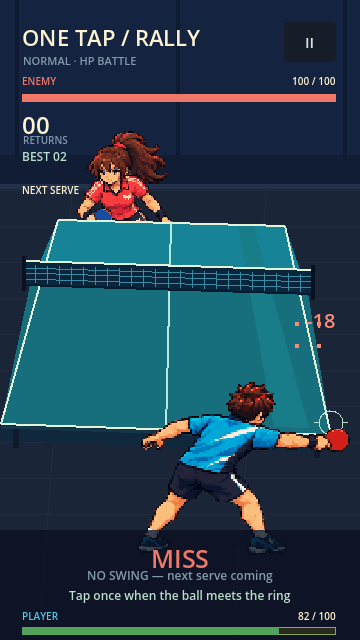
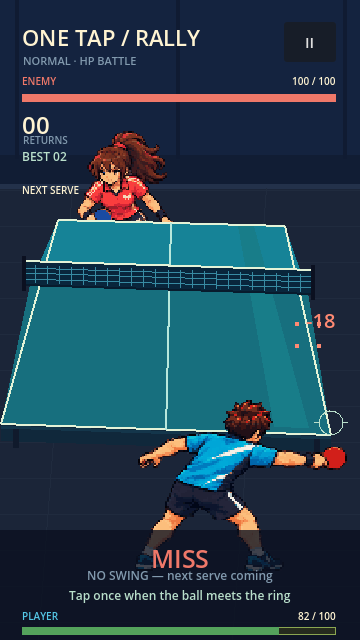
Animate player swing as right-handed forehand drive

Changed region(s): [[0.3667, 0.5938, 0.9778, 0.9062]]

diff --git a/tools/assets/build_player_drive.py b/tools/assets/build_player_drive.py
@@ -1,0 +1,105 @@
+"""Normalize the generated forehand-drive strip into six 128px player frames."""
+from pathlib import Path
+import hashlib
+import json
+
+import numpy as np
+from PIL import Image
+from scipy import ndimage
+
+
+ROOT = Path(__file__).resolve().parents[2]
+SOURCE = ROOT / "assets/source/characters/player_drive_source.png"
+OUTPUT = ROOT / "assets/characters/player"
+
+
+def build() -> None:
+    rgba = np.asarray(Image.open(SOURCE).convert("RGBA"))
+    labels, _ = ndimage.label(rgba[:, :, 3] >= 128, np.ones((3, 3)))
+    objects = []
+    for label, slices in enumerate(ndimage.find_objects(labels), 1):
+        if slices is None:
+            continue
+        mask = labels[slices] == label
+        if int(mask.sum()) < 2000:
+            continue
+        ys, xs = slices
+        feet_y, feet_x = np.where(mask[max(0, mask.shape[0] - 13):, :])
+        foot_x = (int(feet_x.min()) + int(feet_x.max())) / 2
+        objects.append((xs.start, [xs.start, ys.start, xs.stop, ys.stop], mask, rgba[slices].copy(), foot_x))
+    objects.sort(key=lambda item: item[0])
+    assert len(objects) == 6, f"expected six drive poses, found {len(objects)}"
+
+    manifest_path = OUTPUT / "manifest.json"
+    manifest = json.loads(manifest_path.read_text())
+    pivot = manifest["pivot"]
+    max_left = max(item[4] for item in objects)
+    max_right = max(item[2].shape[1] - 1 - item[4] for item in objects)
+    max_height = max(item[2].shape[0] - 1 for item in objects)
+    scale = min(120 / (max_left + max_right), 110 / max_height)
+
+    visible = np.concatenate([item[3][:, :, :3][item[2]] for item in objects])
+    training = Image.fromarray(visible.reshape((-1, 1, 3)).astype("uint8"), "RGB")
+    palette = training.quantize(colors=32, method=Image.Quantize.MEDIANCUT, dither=Image.Dither.NONE)
+    frames = []
+    records = []
+    for index, (_, box, mask, pixels, foot_x) in enumerate(objects):
+        pixels[:, :, 3] = np.where(mask, 255, 0).astype("uint8")
+        crop = Image.fromarray(pixels, "RGBA")
+        size = (round(crop.width * scale), round(crop.height * scale))
+        small = crop.resize(size, Image.Resampling.NEAREST)
+        alpha = small.getchannel("A")
+        colored = small.convert("RGB").quantize(palette=palette, dither=Image.Dither.NONE).convert("RGBA")
+        colored.putalpha(alpha)
+        x = round(pivot[0] - foot_x * scale)
+        y = pivot[1] - (size[1] - 1)
+        assert x >= 0 and y >= 0 and x + size[0] <= 128 and y + size[1] <= 128, (index, x, y, size)
+        frame = Image.new("RGBA", (128, 128))
+        frame.alpha_composite(colored, (x, y))
+        opaque_box = frame.getchannel("A").getbbox()
+        assert opaque_box is not None and opaque_box[3] == 117 and opaque_box[0] > 0 and opaque_box[2] < 128
+        frames.append(frame)
+        records.append({"animation": "swing", "index": index, "source_rect": box,
+                        "opaque_rect": opaque_box, "sha256": hashlib.sha256(frame.tobytes()).hexdigest()})
+
+    contact = np.asarray(frames[3])
+    assert len({frame.tobytes() for frame in frames}) == 6, "drive frames must be distinct"
+    rgb = contact[:, :, :3].astype("int16")
+    red = (rgb[:, :, 0] > 110) & (rgb[:, :, 0] > rgb[:, :, 1] * 1.5) & (rgb[:, :, 0] > rgb[:, :, 2] * 1.4) & (contact[:, :, 3] > 0)
+    patches, _ = ndimage.label(red)
+    areas = np.bincount(patches.ravel())
+    areas[0] = 0
+    contact_y, contact_x = np.where(patches == int(areas.argmax()))
+    assert len(contact_x) > 8, "contact paddle not found"
+    contact_point = [round(float(contact_x.mean())), round(float(contact_y.mean()))]
+
+    sheet = Image.new("RGBA", (768, 128))
+    for index, frame in enumerate(frames):
+        sheet.alpha_composite(frame, (128 * index, 0))
+    sheet.save(OUTPUT / "player_swing.png")
+    enlarged = [Image.alpha_composite(Image.new("RGBA", (128, 128), (23, 33, 59, 255)), frame).convert("RGB").resize((256, 256), Image.Resampling.NEAREST) for frame in frames]
+    enlarged[0].save(OUTPUT / "swing_preview.gif", save_all=True, append_images=enlarged[1:], duration=50, loop=0)
+    idle = Image.open(OUTPUT / "player_idle.png").convert("RGBA")
+    miss = Image.open(OUTPUT / "player_miss.png").convert("RGBA")
+    previews = []
+    for step in range(12):
+        preview = Image.new("RGBA", (384, 128), (23, 33, 59, 255))
+        preview.alpha_composite(idle.crop((step % 4 * 128, 0, (step % 4 + 1) * 128, 128)), (0, 0))
+        preview.alpha_composite(frames[step % 6], (128, 0))
+        preview.alpha_composite(miss.crop((step % 4 * 128, 0, (step % 4 + 1) * 128, 128)), (256, 0))
+        previews.append(preview.convert("RGB"))
+    previews[0].save(OUTPUT / "preview.gif", save_all=True, append_images=previews[1:], duration=130, loop=0)
+
+    manifest["frames"] = [entry for entry in manifest["frames"] if entry["animation"] != "swing"] + records
+    manifest["frames"].sort(key=lambda entry: (list(manifest["animations"]).index(entry["animation"]), entry["index"]))
+    manifest["contact_point"] = contact_point
+    manifest["swing_source"] = str(SOURCE.relative_to(ROOT))
+    manifest["swing_source_size"] = [rgba.shape[1], rgba.shape[0]]
+    manifest["swing_source_scale"] = scale
+    manifest["validation"] = "six drive frames / binary alpha / stable foot pivot / paddle contact verified; visual review pending"
+    manifest_path.write_text(json.dumps(manifest, ensure_ascii=False, indent=2) + "\n")
+    print("player drive:", len(frames), "frames; scale", round(scale, 4), "contact", contact_point)
+
+
+if __name__ == "__main__":
+    build()

diff --git a/tools/assets/build_characters.py b/tools/assets/build_characters.py
@@ -105,3 +105,5 @@ def build(role):
 
 if __name__=='__main__':
  for character in ['player','enemy']:build(character)
+ from build_player_drive import build as build_player_drive
+ build_player_drive()

diff --git a/assets/characters/README.md b/assets/characters/README.md
@@ -1,6 +1,6 @@
 # 128×128 캐릭터 애니메이션
 
-승인된 v3 방향으로 제작한 플레이어/상대의 **Idle 4 + Swing 6 + Miss 4**, 총 28프레임이다. 아래 GIF는 확인용 2배 Nearest 확대이며 실제 프레임은 128×128이다. 각 GIF는 게임의 프레임 속도(4/20/10fps)를 반영하며 반복 표시한다. 게임에서 Swing/Miss는 한 번 재생하고 Idle로 복귀한다.
+승인된 v3 방향으로 제작한 플레이어/상대의 **Idle 4 + Swing 6 + Miss 4**, 총 28프레임이다. 플레이어 Swing은 오른손 포핸드 드라이브다. 아래 GIF는 확인용 2배 Nearest 확대이며 실제 프레임은 128×128이다. 각 GIF는 게임의 프레임 속도(4/20/10fps)를 반영하며 반복 표시한다. 게임에서 Swing/Miss는 한 번 재생하고 Idle로 복귀한다.
 
 | 동작 | 플레이어 | 상대 |
 |---|---|---|
@@ -12,6 +12,6 @@
 
 [게임 접촉 화면](../../docs/previews/characters-in-game.png) / [Miss 화면](../../docs/previews/character-miss.png) / [검증 기록](../../docs/PHASE4_CHARACTER_VALIDATION.md)
 
-시트는 Idle/Miss 512×128, Swing 768×128, RGBA PNG, 역할별 32색과 alpha 0/255를 사용한다. 모든 프레임의 발 하단은 y116이며, 역할별 고정 피벗은 플레이어 (48,116), 상대 (74,116)이다. 접촉 프레임은 0부터 세어 3번이며 라켓 접촉 좌표는 각각 (112,44)/(31,54)다. `frames.tres`와 `manifest.json`에 속도·영역·기준점·원본 영역·해시를 기록했다.
+시트는 Idle/Miss 512×128, Swing 768×128, RGBA PNG, 역할별 32색과 alpha 0/255를 사용한다. 모든 프레임의 발 하단은 y116이며, 역할별 고정 피벗은 플레이어 (48,116), 상대 (74,116)이다. 접촉 프레임은 0부터 세어 3번이며 라켓 접촉 좌표는 각각 (114,34)/(31,54)다. `frames.tres`와 `manifest.json`에 속도·영역·기준점·원본 영역·해시를 기록했다.
 
 사용자가 Python 규격화를 허용했다. 생성 원본을 보존하고 연결된 실루엣 분리, Nearest 축소, 투명 경계 정리, 팔레트 제한을 적용했다. 생성 프레임의 자세/체형 연속성과 실제 모바일 가독성은 수동 검수 대기다. PerfectSwing/Hit/Victory/Defeat 및 환경/UI/효과는 미완료이며 이번 화면은 캐릭터만 연결한 중간 결과다.

diff --git a/docs/ROADMAP.md b/docs/ROADMAP.md
@@ -114,3 +114,6 @@ Phase 1~5 프로토타입 구현과 자동 검증 완료. 사용자의 직접 10
 ## 2026-10-14 좌우 배치 변경
 - 사용자 요청으로 플레이어를 오른쪽 전경, 상대를 왼쪽 원경에 배치했다. 초기 시안에서는 캐릭터까지 뒤집어 왼손잡이가 되었으므로, 후속 요청에 따라 양측 오른손잡이 원본 포즈를 복원했다. 탁구대 투영만 반전하고 공의 시작점·타격점을 각 라켓에 맞췄다. 텍스트 UI는 유지했다.
 - 오른손잡이 포즈와 양쪽 라켓 접촉점을 재확인한 최종 구성은 엔진 2,641검사와 캐릭터·Phase 3·Phase 5 가상 화면 검사를 통과했다. iPhone 화면에서의 최종 크기와 가독성은 사용자 검수 대기다.
+
+## 2026-10-14 플레이어 드라이브
+- 오른손 포핸드 드라이브 6프레임으로 플레이어 Swing을 교체했다. 생성 원본과 규격화 스크립트를 보관해 같은 시트를 다시 만들 수 있다. 임팩트 중심을 새 라켓 위치에 맞추고 팔로스루 화면을 캡처했다. 엔진 2,641검사와 캐릭터·Phase 5 가상 화면 검사를 통과했다. 실제 iPhone 손맛·가독성은 수동 검수 대기다.

diff --git a/assets/source/characters/README.md b/assets/source/characters/README.md
@@ -12,3 +12,5 @@
 
 
 `player_animation_source.png`와 `enemy_animation_source.png`는 1774×887 RGBA 생성 원본이다. 원본은 정확한 128셀 그리드가 아니다. 사용자 허용에 따라 Python으로 원본을 보존하면서 실루엣 분리·Nearest 크기 조정·투명 경계를 정리해 [실제 128셀 애니메이션](../../characters/README.md)을 만들었다. 기본 참조 이미지와 애니메이션 생성 원본은 Godot import/export에서 제외한다 (`assets/source/.gdignore`).
+
+`player_drive_source.png`는 오른손 포핸드 드라이브 Swing 6프레임의 생성 원본이다. `tools/assets/build_player_drive.py`가 원본을 보존한 채 정확한 128×128 프레임으로 규격화한다. 현재 게임의 플레이어 Swing에 연결되어 있으며 실제 모바일 동작 검수는 남아 있다.

diff --git a/docs/USER_QA.md b/docs/USER_QA.md
@@ -48,7 +48,7 @@ Godot 4.6.3 stable에서 project.godot를 Import → F5. 기본 보통 난이도
 
 ## Phase 4 캐릭터 수동 검수 대기
 - [ ] Idle 호흡/머리/체형 변화가 자연스럽고 프레임 사이 발이 흔들리지 않는지
-- [ ] Swing 접촉·후속 동작과 Miss 구분, 공/라켓 색 대비가 읽히는지
+- [ ] 플레이어의 낮은 백스윙·상승 타격·높은 팔로스루가 드라이브로 읽히는지, Miss와 구분되는지
 - [ ] 투명 경계/셀 잘림/네트 레이어/HP 겹침이 없는지
 - [ ] iPhone에서 실제 도트 밀도와 크기가 적절한지
 - [ ] 나머지 환경 통합 후 승인된 v3 확대 구도와 집중도가 맞는지
